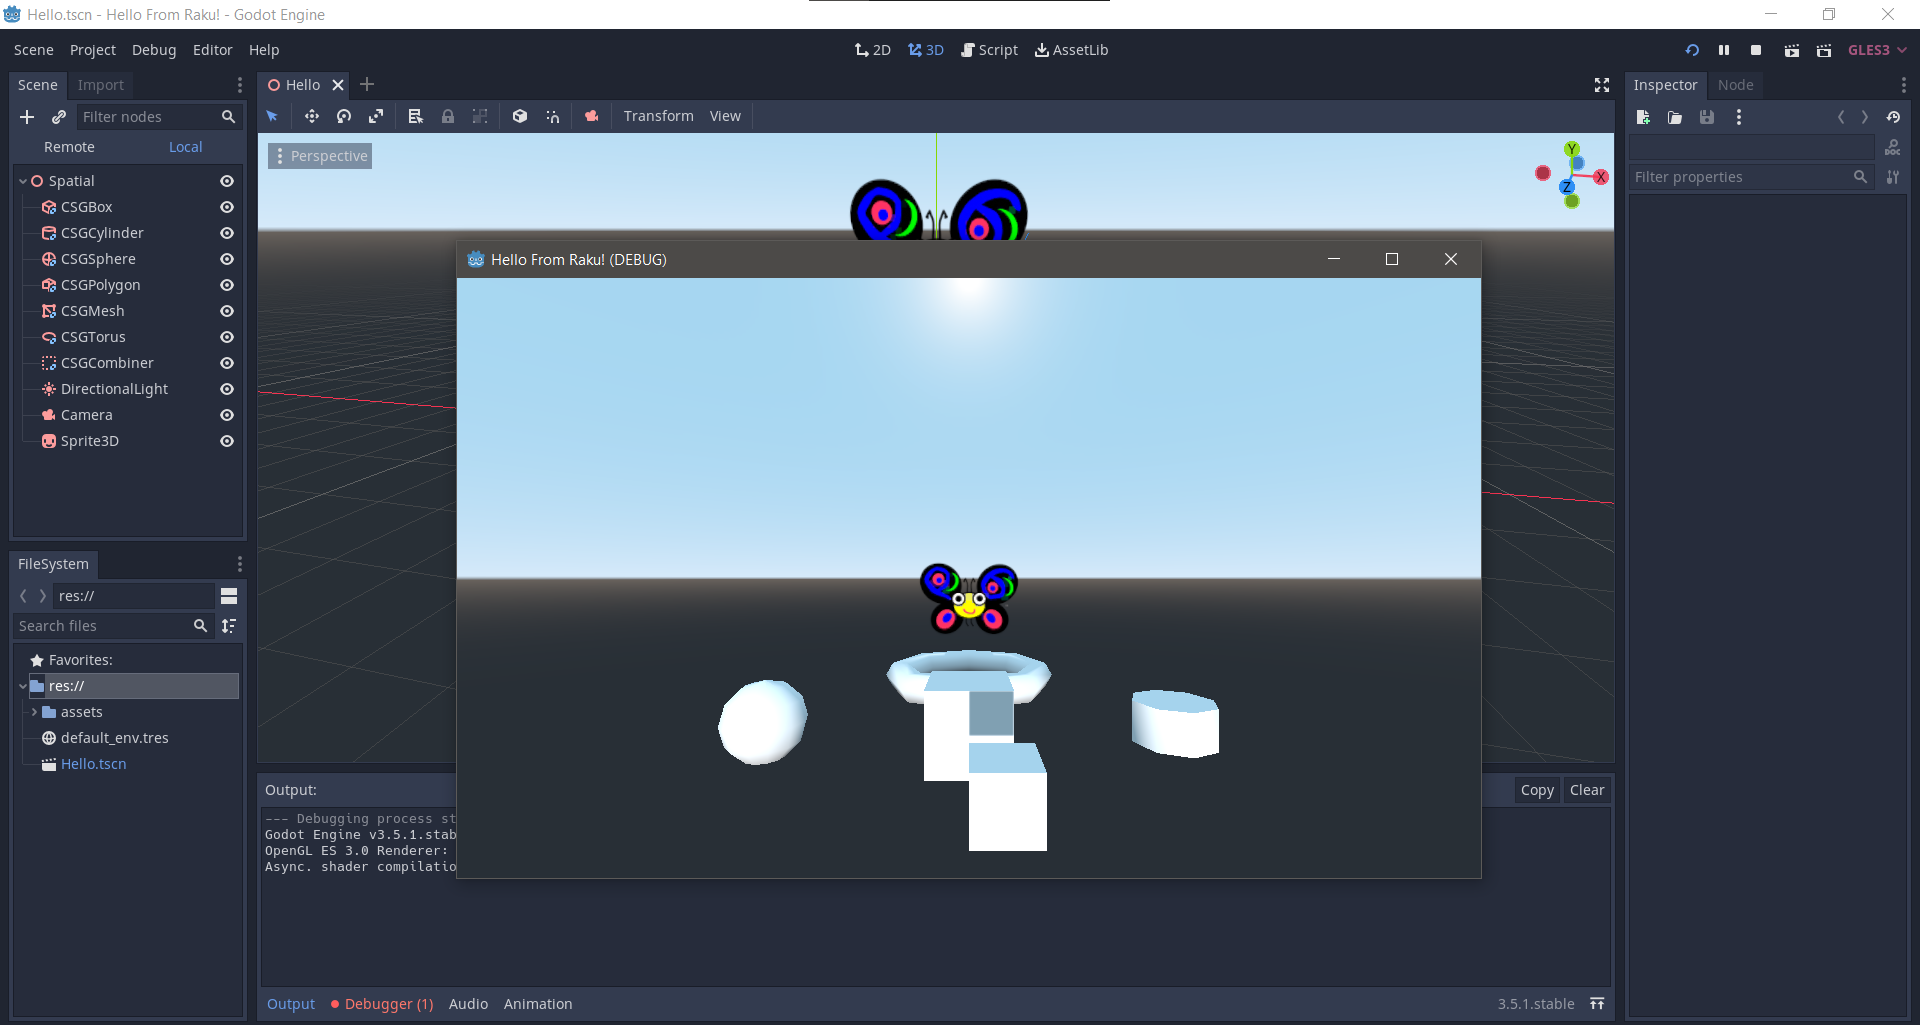
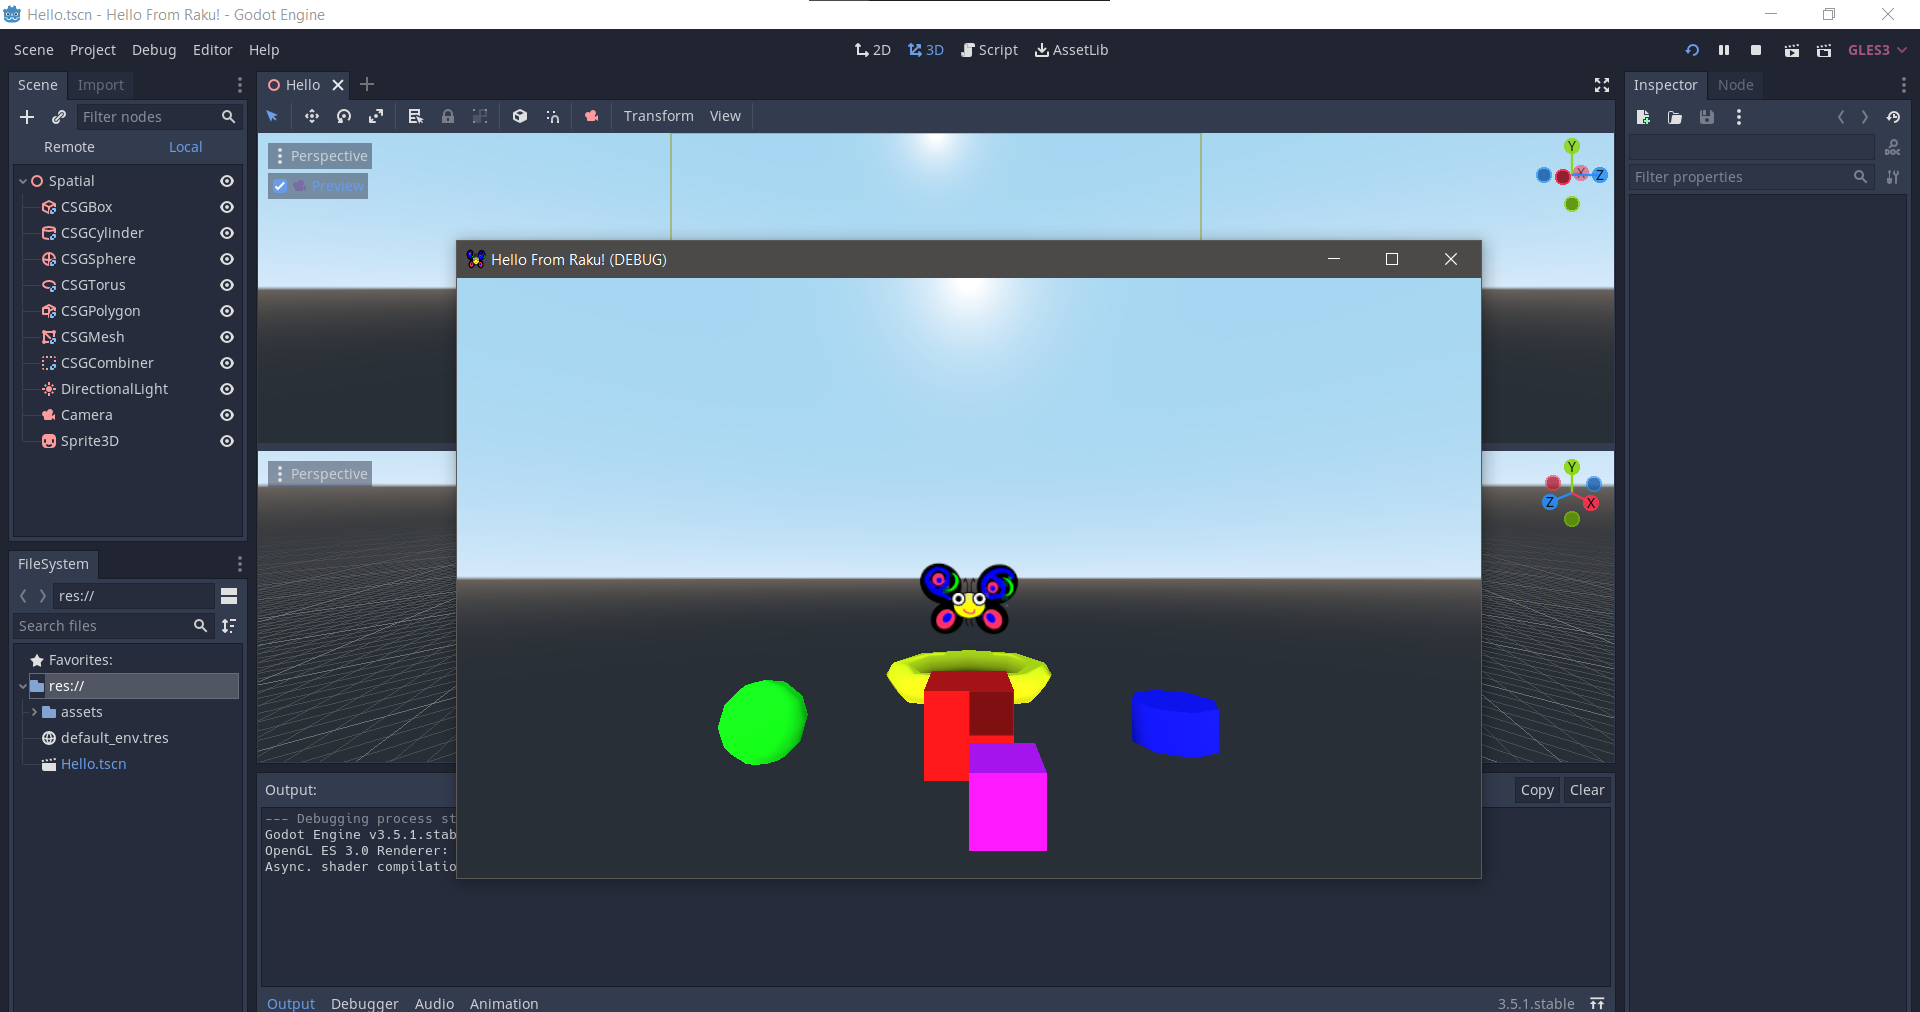
Update screenshot and README example

diff --git a/README.md b/README.md
@@ -28,13 +28,24 @@ use Godot::Fun::Scene;
 my $project_folder = 'hello-project';
 
 # Create 3D scene with CSG primitives, directional light and camera
+
 my $spatial = Godot::Fun::Spatial.new;
-$spatial.add: Godot::Fun::CSGBox.new;
-$spatial.add: Godot::Fun::CSGCylinder.new(tx =>  5);
-$spatial.add: Godot::Fun::CSGSphere.new(tx => -5);
-$spatial.add: Godot::Fun::CSGPolygon.new(tz =>  5);
+my $red = Godot::Fun::Color.new(red => 1);
+my $green = Godot::Fun::Color.new(green => 1);
+my $blue = Godot::Fun::Color.new(blue => 1);
+my $yellow = Godot::Fun::Color.new(red => 1, green => 1);
+my $pink = Godot::Fun::Color.new(red => 1, blue => 1);
+my $red_material = Godot::Fun::SpatialMaterial.new(albedo_color => $red);
+my $green_material = Godot::Fun::SpatialMaterial.new(albedo_color => $blue);
+my $blue_material = Godot::Fun::SpatialMaterial.new(albedo_color => $green);
+my $yellow_material = Godot::Fun::SpatialMaterial.new(albedo_color => $yellow);
+my $pink_material = Godot::Fun::SpatialMaterial.new(albedo_color => $pink);
+$spatial.add: Godot::Fun::CSGBox.new(material => $red_material);
+$spatial.add: Godot::Fun::CSGCylinder.new(tx =>  5, material => $green_material);
+$spatial.add: Godot::Fun::CSGSphere.new(tx => -5, material => $blue_material);
+$spatial.add: Godot::Fun::CSGTorus.new(tz => -5, material => $yellow_material);
+$spatial.add: Godot::Fun::CSGPolygon.new(tz =>  5, material => $pink_material);
 $spatial.add: Godot::Fun::CSGMesh.new;
-$spatial.add: Godot::Fun::CSGTorus.new(tz => -5);
 $spatial.add: Godot::Fun::CSGCombiner.new;
 $spatial.add: Godot::Fun::DirectionalLight.new(shadow_enabled => True);
 $spatial.add: Godot::Fun::Camera.new(ty => 3.5, tz => 10.5);
@@ -42,12 +53,16 @@ $spatial.add: Godot::Fun::Camera.new(ty => 3.5, tz => 10.5);
 my $texture = Godot::Fun::TextureResource.new(
     name => "camelia.png",
     path => "res://assets/camelia.png",
-    id => 1
 );
 $spatial.add: Godot::Fun::Sprite3D.new(texture => $texture, ty => 3);
 
 my $scene = Godot::Fun::Scene.new: name => 'Hello', root_node => $spatial;
 $scene.add($texture);
+$scene.add($red_material);
+$scene.add($green_material);
+$scene.add($blue_material);
+$scene.add($yellow_material);
+$scene.add($pink_material);
 $scene.save: $project_folder;
 
 # Create Godot project
